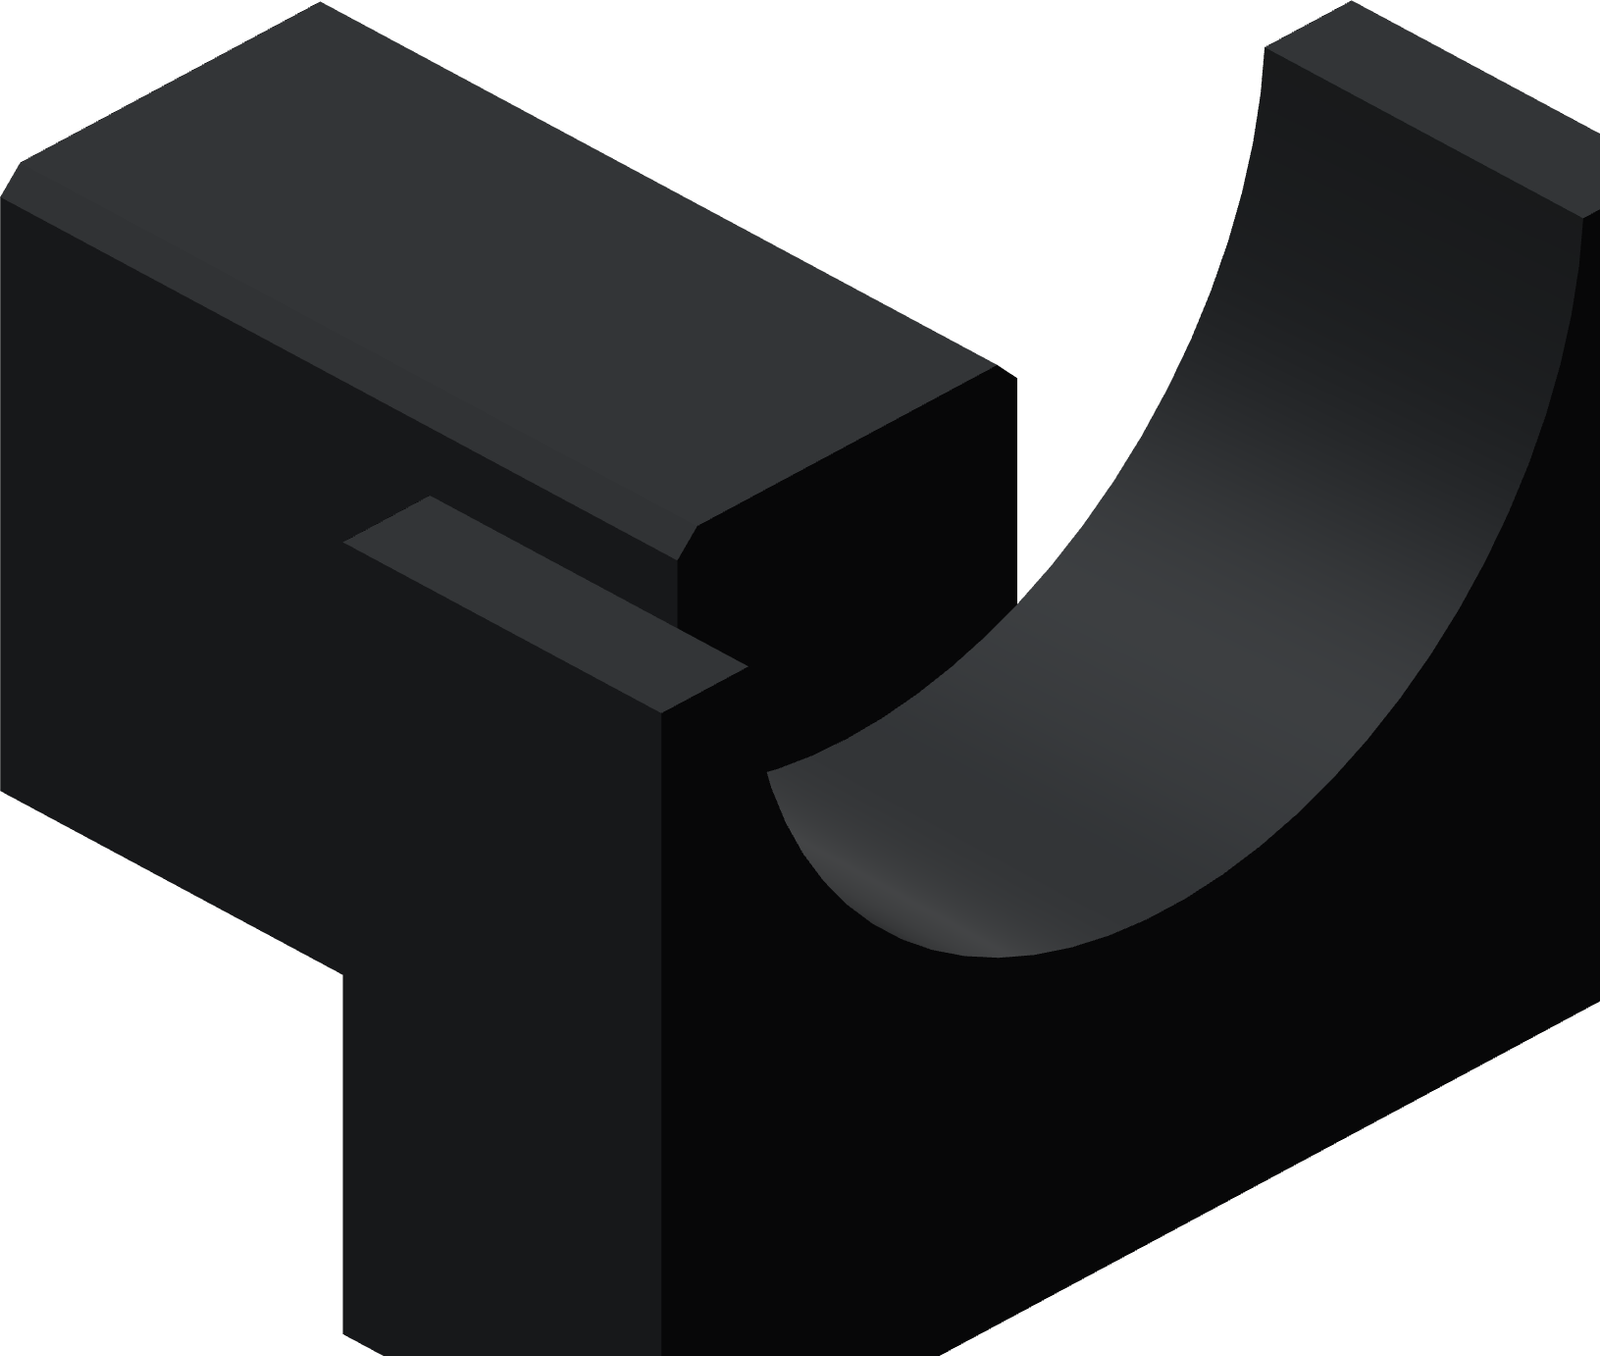
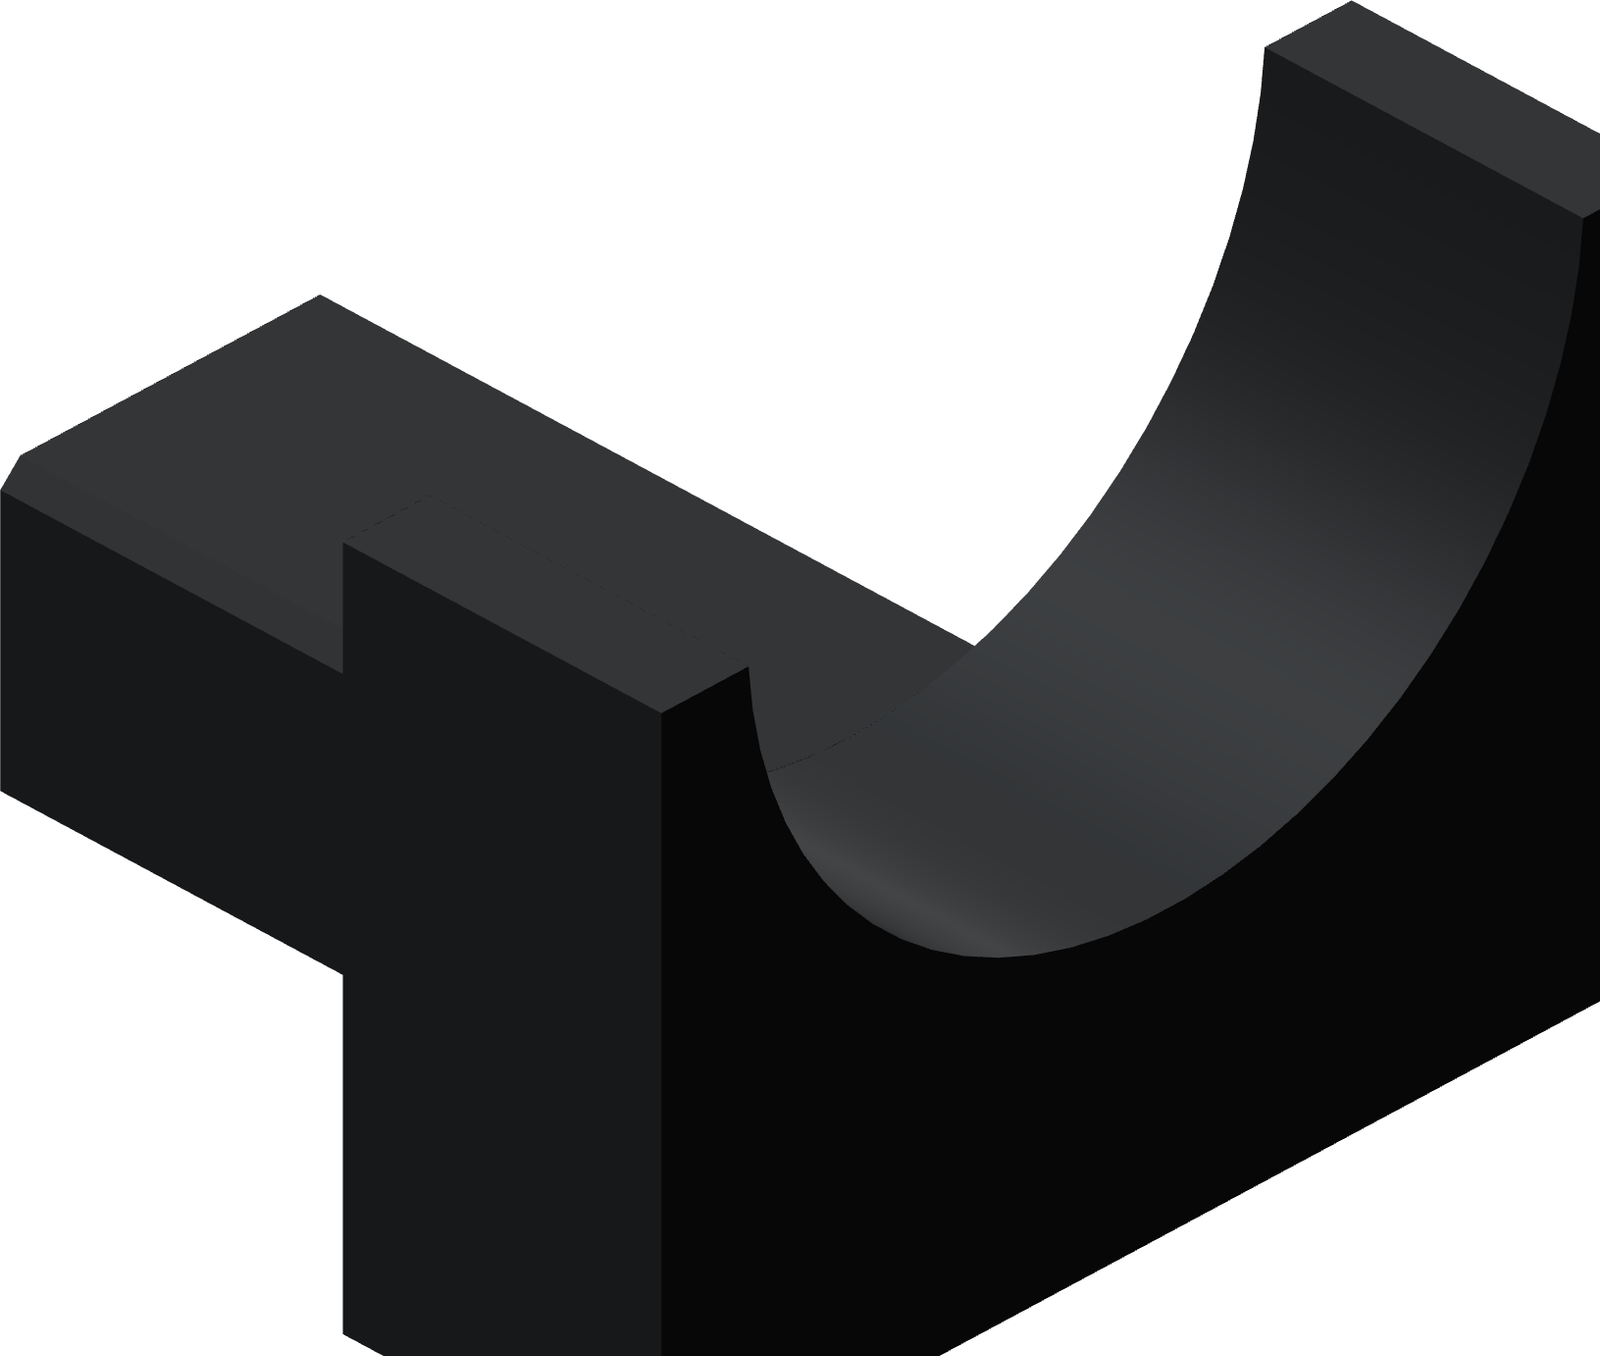
Join the donor pad tongue to its solid crown
Place the tongue above the curved saddle to remove the two acute
junction remnants while keeping 1 mm excess width and 8.25 mm canyon
engagement. Regenerate the manufacturing geometry and native TPU slice.

Session: Insert 2
Derek: "I think this can all be done in a supremely printable way, where the flat surface is bed down."
Derek: "I'm thinking something that is an inverse "half pipe" of the donor above the threaded shaft, and it is thick enough to rise above the PET-GF by 2 mm as a flat surface, and then yeah probably just for self retention, probably something that fits above the threaded part between those two PET-GF walls, in that canyon, probably slightly wider than that canyon by about 1 mm, so it compresses as it inserts, and allows it to hold its position well."

Changed region(s): [[0.0, 0.0, 0.6562, 0.5885]]

diff --git a/hardware/printed-parts/fixtures/tube-insertion/donor-hold-down/donor_hold_down.py b/hardware/printed-parts/fixtures/tube-insertion/donor-hold-down/donor_hold_down.py
@@ -28,7 +28,9 @@ FACE_Z = jig.THRUST_WALL_Z1 + 2.0
 TONGUE_X0 = jig.THRUST_WALL_X0 + 0.5
 TONGUE_X1 = jig.THRUST_WALL_X1
 TONGUE_WIDTH = jig.SHANK_SLOT_D + 1.0
-TONGUE_BOTTOM_Z = jig.DONOR_AXIS_Z + jig.DONOR_SHANK_OD / 2 + 1.0
+# Join the tongue only to the solid crown, above the circular cutout. A
+# deeper tongue leaves acute remnants where its sides meet that cutout.
+TONGUE_BOTTOM_Z = jig.DONOR_AXIS_Z + BODY_RADIUS
 LEAD_HEIGHT = 0.75
 LEAD_IN_PER_SIDE = 0.75
 PAD_COLOR = cq.Color(0.11, 0.12, 0.13)
@@ -86,6 +88,8 @@ def dimensions():
         "retention_tongue_width_mm": TONGUE_WIDTH,
         "nominal_interference_per_side_mm": (TONGUE_WIDTH - jig.SHANK_SLOT_D) / 2,
         "thread_clearance_mm": TONGUE_BOTTOM_Z - jig.DONOR_AXIS_Z - jig.DONOR_SHANK_OD / 2,
+        "tongue_canyon_engagement_mm": jig.THRUST_WALL_Z1 - TONGUE_BOTTOM_Z,
+        "full_width_canyon_engagement_mm": jig.THRUST_WALL_Z1 - TONGUE_BOTTOM_Z - LEAD_HEIGHT,
         "lower_cradle_clearance_mm": BODY_BOTTOM_Z - jig.DONOR_AXIS_Z,
         "rear_face_clearance_mm": TONGUE_X0 - jig.THRUST_WALL_X0,
         "tongue_entry_width_mm": TONGUE_WIDTH - 2 * LEAD_IN_PER_SIDE,

diff --git a/hardware/printed-parts/fixtures/tube-insertion/donor-hold-down/README.md b/hardware/printed-parts/fixtures/tube-insertion/donor-hold-down/README.md
@@ -25,7 +25,9 @@ available, so its actual clearance remains an ordinary unloaded fit check.
 | Retention tongue width | 12.8 mm |
 | Compression allowance | 0.5 mm per side |
 | Tongue entry width | 11.3 mm |
-| Thread clearance below tongue | 1 mm |
+| Thread clearance below tongue | 10.25 mm |
+| Tongue engagement below wall top | 8.25 mm |
+| Full-width compression engagement | 7.5 mm |
 | Clearance above lower cradle | 1 mm |
 | Minimum crown backing | 10.25 mm |
 | Minimum side backing | 3.25 mm |
@@ -51,7 +53,7 @@ compensation is `G29.1 Z0.16` after the reset to zero.
 
 The native slice has 138 layers, no generated supports, at least 133.4 mm
 full-bead bed-edge clearance and no slicer warning. Estimated use is
-16.5 g and 1 hour 57 minutes. These files are prepared offline; no pad
+12.8 g and 1 hour 36 minutes. These files are prepared offline; no pad
 print has been submitted.
 
 ## Fit and use

diff --git a/hardware/printed-parts/fixtures/tube-insertion/load-basis.md b/hardware/printed-parts/fixtures/tube-insertion/load-basis.md
@@ -41,8 +41,10 @@ below do not assess this motion or the required downward counterforce.
 The separate [TPU hand pad](donor-hold-down/README.md) bears on the
 cylindrical metal body and supplies a flat surface for manual downward
 pressure. Its tongue retains the pad in the shank canyon; its press fit
-has no assigned hold-down capacity. The pad has 1 mm nominal clearance
-above both the threaded shank and lower cradle. Hand-pressure performance
+has no assigned hold-down capacity. The tongue joins the solid crown
+above the saddle and has 10.25 mm nominal clearance above the threaded
+shank, with 8.25 mm of canyon engagement. The pad clears the lower cradle
+by 1 mm. Hand-pressure performance
 and installed lever clearance remain physically unqualified.
 
 Each rigid collar half is 15 mm high. Its transverse wings have 30.5 mm
